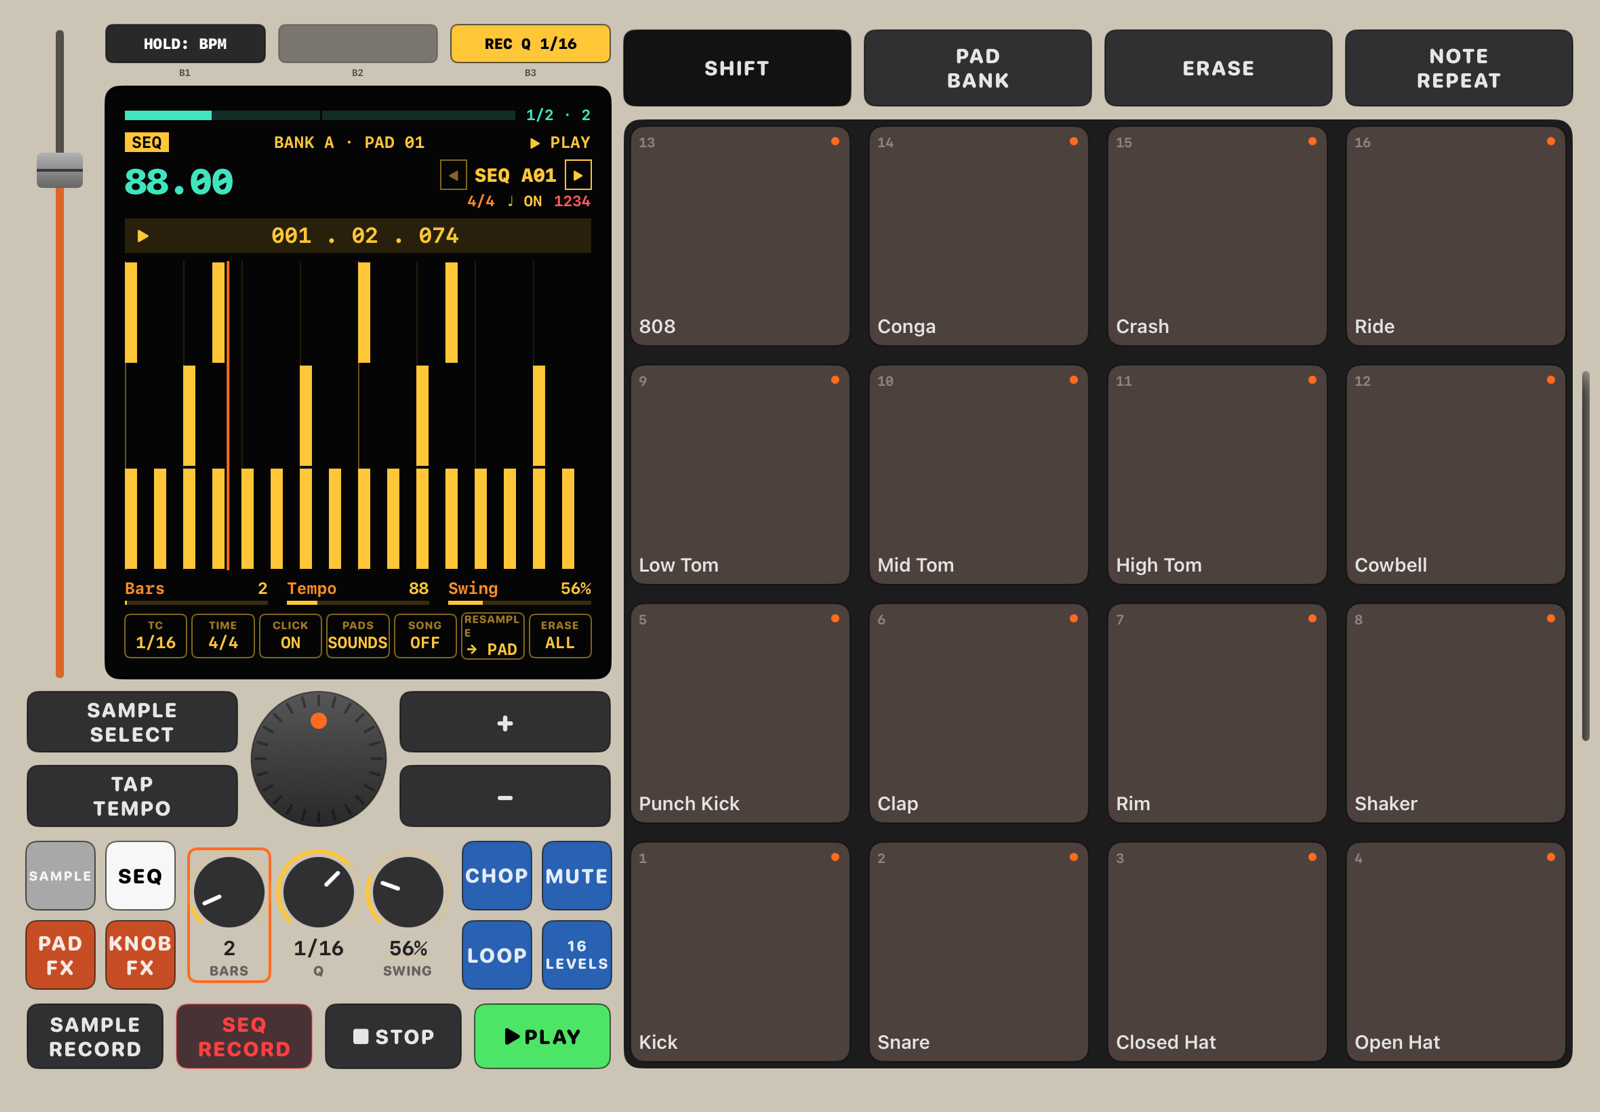
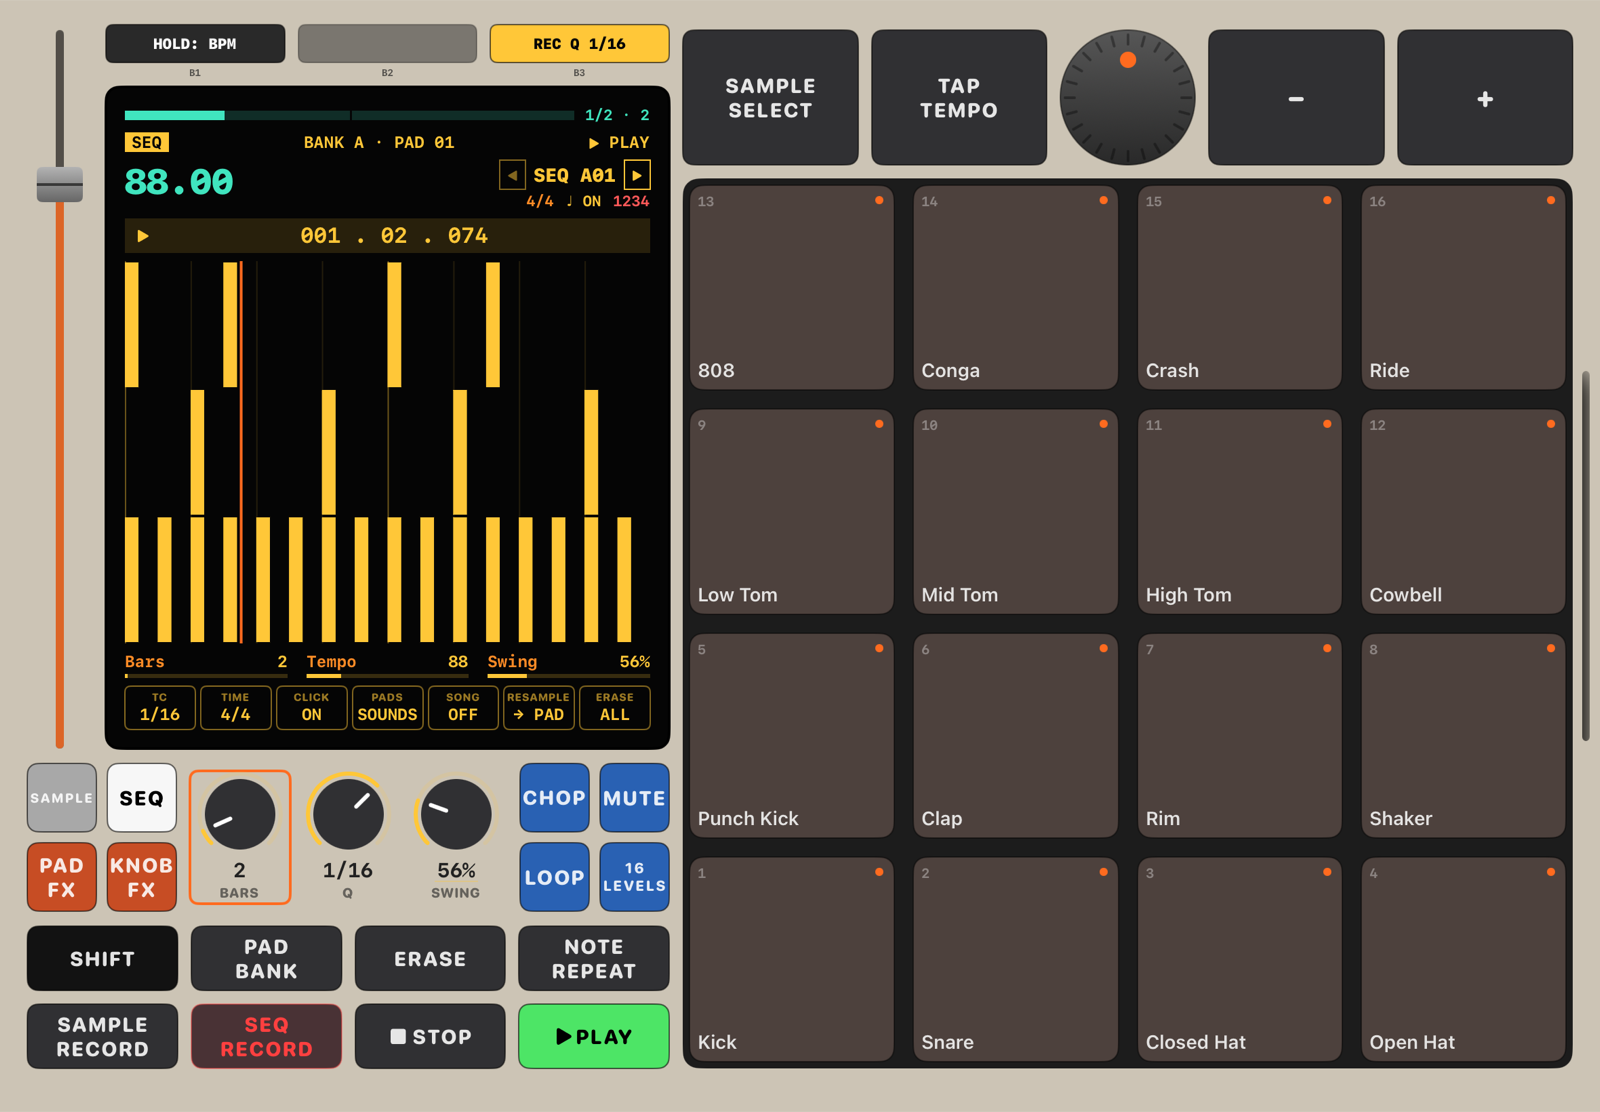
iPad landscape: manual and screenshot

diff --git a/MANUAL.md b/MANUAL.md
@@ -15,7 +15,7 @@ For version 0.36.0. ChopPad is laid out like a hardware pad sampler: one main sc
 
 **iPhone, landscape** (with the notch on the left): SHIFT, PAD BANK, the FADER, ERASE and NOTE REPEAT run down the left edge, the screen with everything around it is in the middle, and the pads fill the right side from top to bottom.
 
-**iPad**: the same keys, arranged to fill the bigger screen with square pads. Portrait: the screen, keys and knobs across the top, then SHIFT, PAD BANK, the FADER, ERASE and NOTE REPEAT down the left of the pads. Landscape: the pads on the right, level with PLAY at the bottom, with SHIFT, PAD BANK, ERASE and NOTE REPEAT in a row above them; on the left the screen with the FADER beside it, then SAMPLE SELECT, TAP TEMPO, the wheel and − / +, the MODE keys, knobs and PAD PLAY keys, and the transport row. The status bar is hidden on iPad.
+**iPad**: the same keys, arranged to fill the bigger screen with square pads. Portrait: the screen, keys and knobs across the top, then SHIFT, PAD BANK, the FADER, ERASE and NOTE REPEAT down the left of the pads. Landscape: the pads on the right, level with PLAY at the bottom, with SAMPLE SELECT, TAP TEMPO, the wheel and − / + in a row above them (top right, as in portrait); on the left the screen with the FADER beside it, then the MODE keys, knobs and PAD PLAY keys, the SHIFT row and the transport row. The status bar is hidden on iPad.
 
 Keys react as soon as you touch them, like real buttons, and you can hold several keys and pads at once. Messages about what just happened (for example "COPIED A1 → A2") appear for a moment in the middle of the screen.
 
